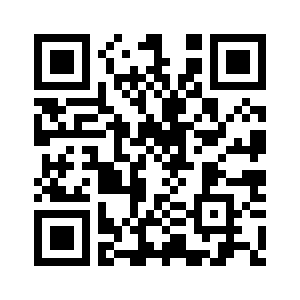
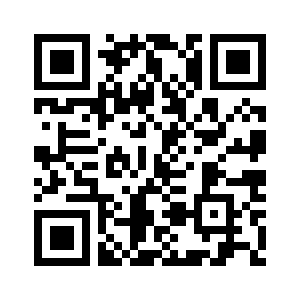
Cap nhat : cart .

diff --git a/src/main/java/org/example/ilib/Controller/ControllerCartItemList.java b/src/main/java/org/example/ilib/Controller/ControllerCartItemList.java
@@ -1,8 +1,10 @@
 package org.example.ilib.Controller;
 
 import com.google.zxing.WriterException;
+import javafx.application.Platform;
 import javafx.collections.FXCollections;
 import javafx.collections.ObservableList;
+import javafx.concurrent.Task;
 import javafx.fxml.FXML;
 import javafx.fxml.FXMLLoader;
 import javafx.fxml.Initializable;
@@ -63,6 +65,8 @@ public class ControllerCartItemList implements Initializable {
     private TableColumn<CartItem, Integer> VolumeCol;
     @FXML
     private TextField VoulumeText;
+    @FXML
+    private ProgressIndicator LoadingIndicator;
     private boolean isTotalCalculated = false;
     private boolean isBuyQR = false;
 
@@ -123,34 +127,57 @@ public class ControllerCartItemList implements Initializable {
         } else if (totalMonet == 0) {
             showErrAndEx.showAlert("Số tiền thanh toán không hợp lệ");
         } else {
-           if(!isBuyQR) {
-               isBuyQR = true;
-               try {
-                   String path = "The amount paid is: " + String.valueOf(totalMonet) + " USD \n Have a nice day!";
-                   // Tạo mã QR và lấy đường dẫn
-                   String qrImagePath = QRCodeAuto.taoQrCode(path);
-                   // Đặt hình ảnh QR vào ImageView
-                   QRCode.setImage(new Image(qrImagePath));
-                   savePayments(email,CartList.stream().toList());
-                   boolean SendIt = SendEmail.sendEmail(email, "Thanh toán thư viện", path);
-                   if(SendIt){
-                       System.out.println("Chuyển email thành công");
-                   } else{
-                       System.out.println("Chuyển email không thành công");
-                       showErrAndEx.showAlert("Chuyển email không thành công");
-                   }
-                   updateQuantityInStock();
-                   updateBorrowBook();
-                   removeBookFromCart(email,"is not null");
+            if (!isBuyQR) {
+                Loading(true);
+                isBuyQR = true;
 
-               } catch (IOException | WriterException e) {
-                   e.printStackTrace();
-               }
-           } else {
-               showErrAndEx.showAlert("Bạn đã thanh toán thành công");
-           }
+                Task<Void> task = new Task<>() {
+                    @Override
+                    protected Void call() throws Exception {
+                        try {
+                            String path = "The amount paid is: " + totalMonet + " USD \n Have a nice day!";
+                            String qrImagePath = QRCodeAuto.taoQrCode(path);
+                            savePayments(email, CartList.stream().toList());
+                            updateQuantityInStock();
+                            updateBorrowBook();
+                            removeBookFromCart(email, "is not null");
+                            Platform.runLater(() -> QRCode.setImage(new Image(qrImagePath)));
+                            boolean sendIt = SendEmail.sendEmail(email, "Thanh toán thư viện", path);
+                            if (!sendIt) {
+                                throw new IOException("Chuyển email không thành công");
+                            }
+
+                        } catch (Exception e) {
+                            e.printStackTrace();
+                        }
+                        return null;
+                    }
+
+                    @Override
+                    protected void succeeded() {
+                        super.succeeded();
+                        Platform.runLater(() -> {
+                            Loading(false);
+                            showErrAndEx.showAlert("Thanh toán thành công!");
+                        });
+                    }
+
+                    @Override
+                    protected void failed() {
+                        super.failed();
+                        Platform.runLater(() -> {
+                            Loading(false);
+                            showErrAndEx.showAlert("Đã xảy ra lỗi!");
+                        });
+                    }
+                };
+                new Thread(task).start();
+            } else {
+                showErrAndEx.showAlert("Bạn đã thanh toán thành công");
+            }
         }
     }
+
 
     @FXML
     void totalMoneyClick(MouseEvent event) {
@@ -403,6 +430,12 @@ public class ControllerCartItemList implements Initializable {
         }
     }
 
-
-
+    private void Loading(boolean isLoading) {
+        LoadingIndicator.setVisible(isLoading);
+        if (isLoading) {
+            LoadingIndicator.setProgress(ProgressIndicator.INDETERMINATE_PROGRESS);
+        } else {
+            LoadingIndicator.setProgress(0); // Đặt lại nếu không còn loading
+        }
+    }
 }

diff --git a/src/main/java/org/example/ilib/Controller/ControllerAddEdit.java b/src/main/java/org/example/ilib/Controller/ControllerAddEdit.java
@@ -54,11 +54,11 @@ public class ControllerAddEdit {
     @FXML
     void UpdateButtonClick(MouseEvent event) {
             if(status == ADD) {
-                if(bookIdText.getText().equals("")) {
+                if(bookIdText.getText()==null||bookIdText.getText().equals("")) {
                     showErrAndEx.showAlert("Vui lòng nhập ID sách");
                     return;
                 }
-                if(titleText.getText().equals("")) {
+                if(titleText.getText()==null||titleText.getText().equals("")) {
                     showErrAndEx.showAlert("Vui lòng nhập tiêu đề sách");
                     return;
                 }
@@ -73,14 +73,15 @@ public class ControllerAddEdit {
 
 
             } else if(status == EDIT) {
-                if(bookIdText.getText().equals("")) {
+                if(bookIdText.getText()== null||bookIdText.getText().equals("")) {
                     showErrAndEx.showAlert("Vui lòng nhập id sách");
                     return;
                 }
-                if(titleText.getText().equals("")) {
+                if(titleText.getText()==null||titleText.getText().equals("")) {
                     showErrAndEx.showAlert("Vui lòng nhập tiêu đề sách");
                     return;
                 }
+
                 Book book1 = new Book();
                 book1.setId(bookIdText.getText());
                 book1.setPrice(Integer.parseInt(priceText.getText()));

diff --git a/src/main/java/org/example/ilib/Controller/ControllerBookDetail.java b/src/main/java/org/example/ilib/Controller/ControllerBookDetail.java
@@ -85,10 +85,10 @@ public class ControllerBookDetail {
         titleText.setText(book.getTitle());
         authorText.setText(book.getAuthor());
         String description = book.getDescription();
-        if (description.length() < 450) {
+        if (description == null ||description.length() < 250 ) {
             descriptionText.setText(description);
         } else {
-            descriptionText.setText(book.getDescription().substring(0, 449));
+            descriptionText.setText(book.getDescription().substring(0, 250));
         }
         idText.setText(book.getId());
         quantityText.setText(String.valueOf(book.getQuantity()));
